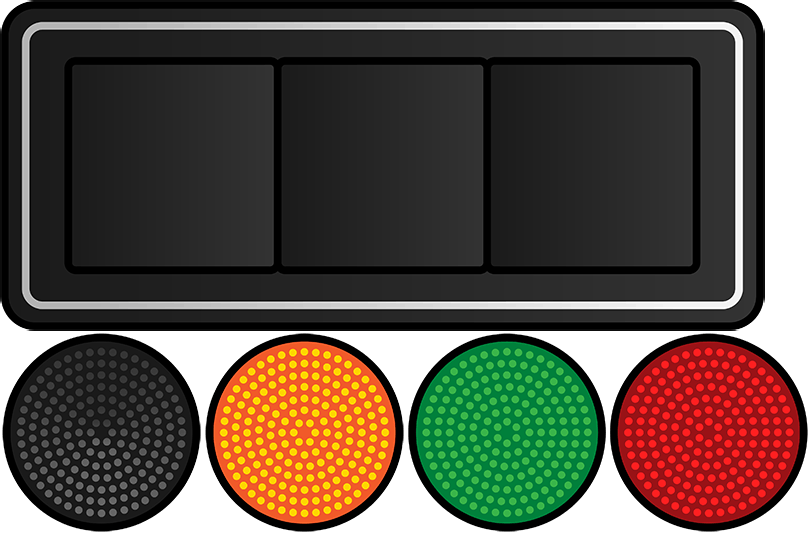
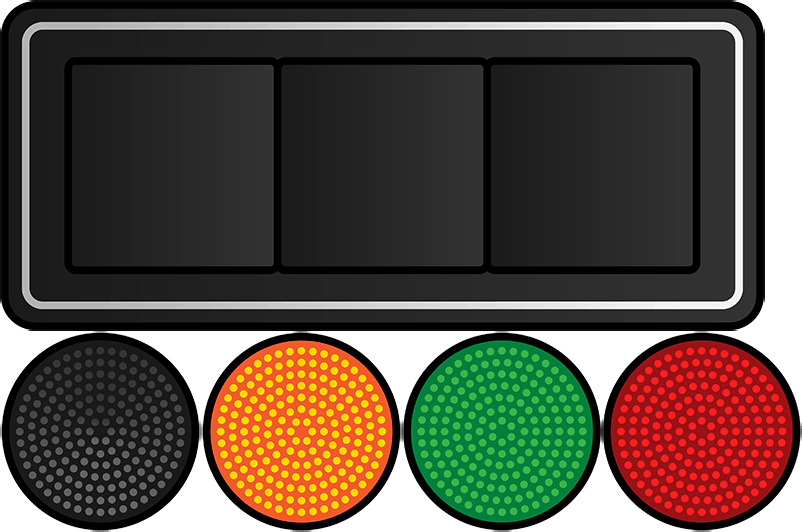
complete graphic setup for traffic light

diff --git a/src/traffic_light/view/TrafficLightView.ts b/src/traffic_light/view/TrafficLightView.ts
@@ -1,5 +1,5 @@
 import { inject, injectable } from "inversify";
-import { Assets, Container, Graphics, Sprite } from 'pixi.js';
+import {Assets, Container, Graphics, Point, Sprite} from 'pixi.js';
 import { TYPES } from "../../Types";
 import type { IEventDispatcher } from "../../common/event/IEventDispatcher";
 
@@ -8,15 +8,19 @@ export class TrafficLightView {
     @inject(TYPES.EventDispatcher) private _eventDispatcher: IEventDispatcher;
 
     protected _view: Container;
-    private _background: Graphics;
+    private _trafficLight: Sprite;
 
-    public get background(): Graphics {
-        return this._background;
-    }
+    private _redLightOff: Sprite;
+    private _yellowLightOff: Sprite;
+    private _greenLightOff: Sprite;
 
-    public set background(value: Graphics) {
-        this._background = value;
-    }
+    private _redLightOn: Sprite;
+    private _yellowLightOn: Sprite;
+    private _greenLightOn: Sprite;
+
+    private _redLightPos: Point = new Point(165,172);
+    private _yellowLightPos: Point = new Point(165,382);
+    private _greenLightPos: Point = new Point(165,592);
 
     public setup(): void {
         this._view = new Container();
@@ -25,9 +29,34 @@ export class TrafficLightView {
     }
 
     protected createBackground():void {
-        const sheet = Assets.get('traffic-light');
-        const background = Sprite.from(sheet.textures["background.png"]);
-        this._view.addChild(background);
+        const sheet = Assets.get('traffic-lightJSON');
+        this._trafficLight = Sprite.from(sheet.textures["background.png"]);
+
+        this._redLightOff = Sprite.from(sheet.textures["off.png"]);
+        this._yellowLightOff = Sprite.from(sheet.textures["off.png"]);
+        this._greenLightOff = Sprite.from(sheet.textures["off.png"]);
+
+        this._redLightOn = Sprite.from(sheet.textures["red.png"]);
+        this._yellowLightOn = Sprite.from(sheet.textures["yellow.png"]);
+        this._greenLightOn = Sprite.from(sheet.textures["green.png"]);
+
+        this._redLightOff.position.set(this._redLightPos.x, this._redLightPos.y);
+        this._yellowLightOff.position.set(this._yellowLightPos.x, this._yellowLightPos.y);
+        this._greenLightOff.position.set(this._greenLightPos.x, this._greenLightPos.y);
+
+        this._redLightOn.position.set(this._redLightPos.x, this._redLightPos.y);
+        this._yellowLightOn.position.set(this._yellowLightPos.x, this._yellowLightPos.y);
+        this._greenLightOn.position.set(this._greenLightPos.x, this._greenLightPos.y);
+
+        this._view.addChild(this._trafficLight);
+
+        this._view.addChild(this._redLightOff);
+        this._view.addChild(this._yellowLightOff);
+        this._view.addChild(this._greenLightOff);
+
+        this._view.addChild(this._redLightOn);
+        this._view.addChild(this._yellowLightOn);
+        this._view.addChild(this._greenLightOn);
     }
 
     public restart(): void {

diff --git a/src/main/Game.ts b/src/main/Game.ts
@@ -44,7 +44,7 @@ export class Game extends Container implements IScene {
         this._trafficLightController = system.resolve<TrafficLightController>(TrafficLightController);
         this._trafficLightController.setup(system);
         this._trafficLightView = this._trafficLightController.view;
-        this.addChild(this._trafficLightView);
+        this.addChild(this._trafficLightView.view);
 
         window.addEventListener("orientationchange", this.orientationChange.bind(this));
         this.setupBackground(1);
